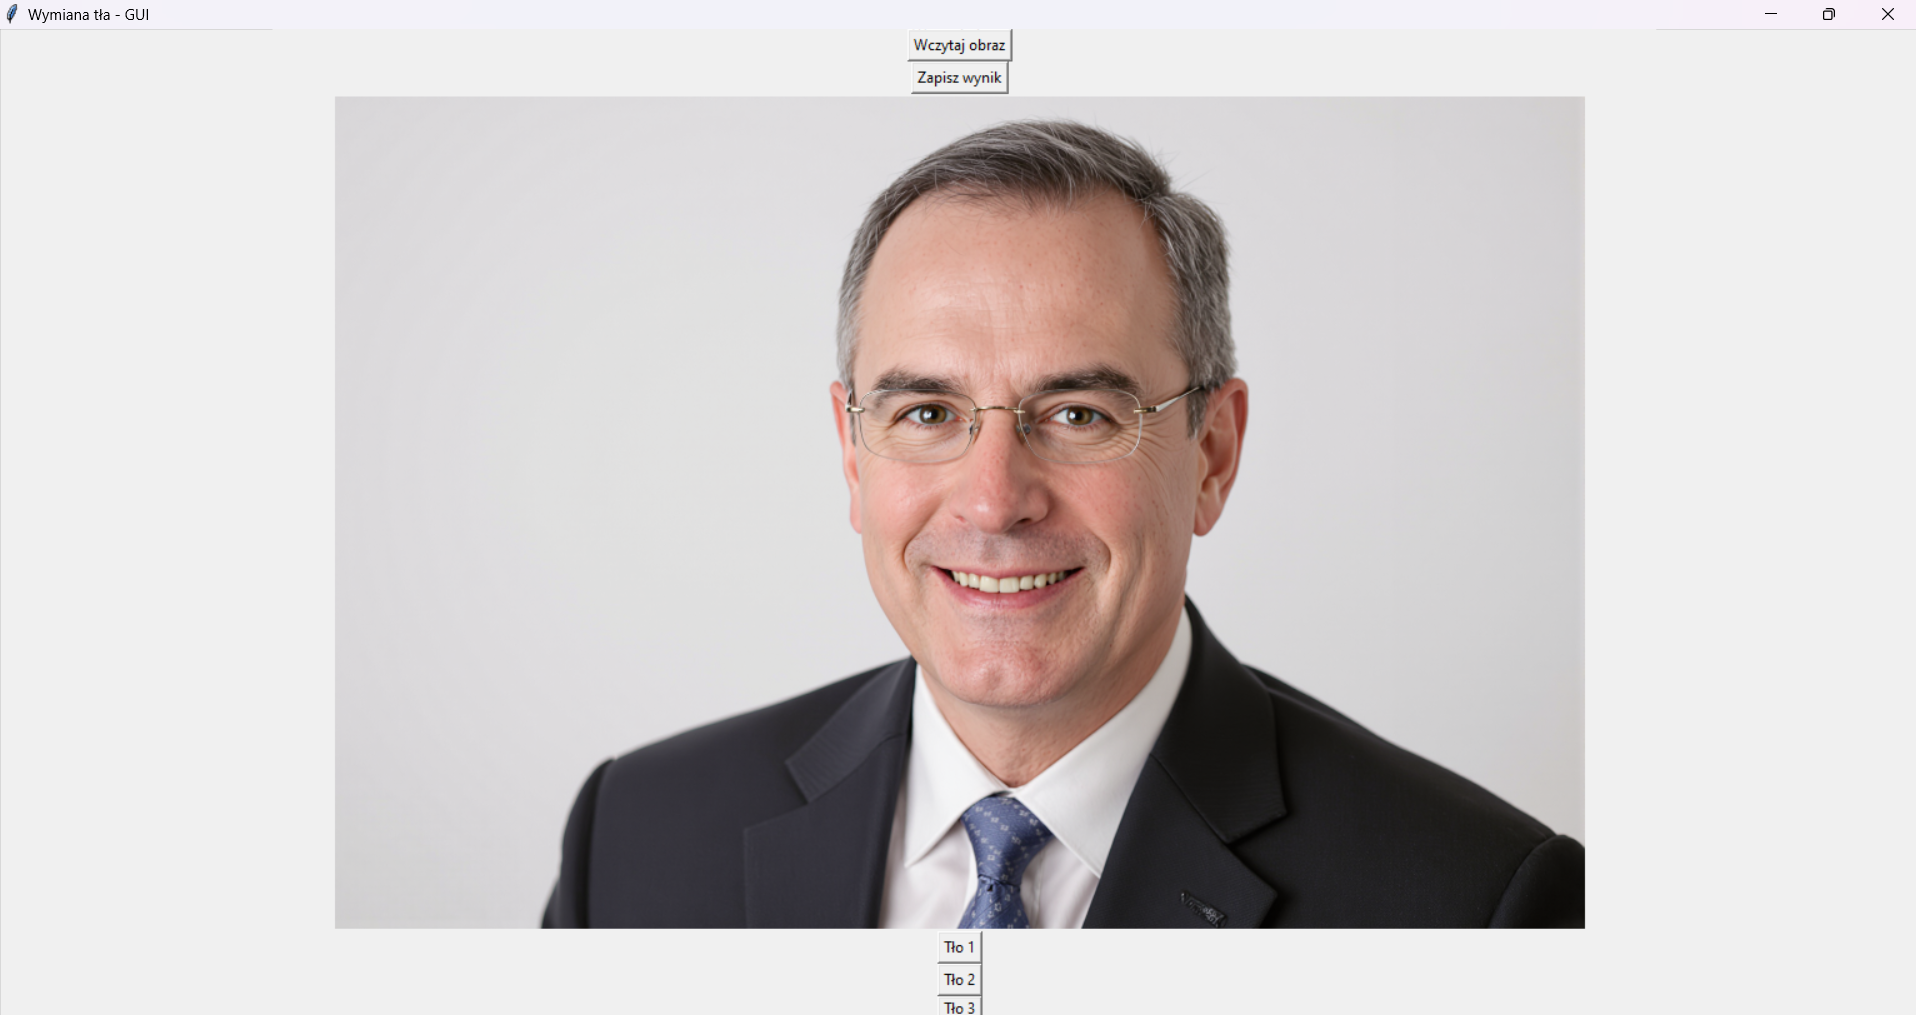
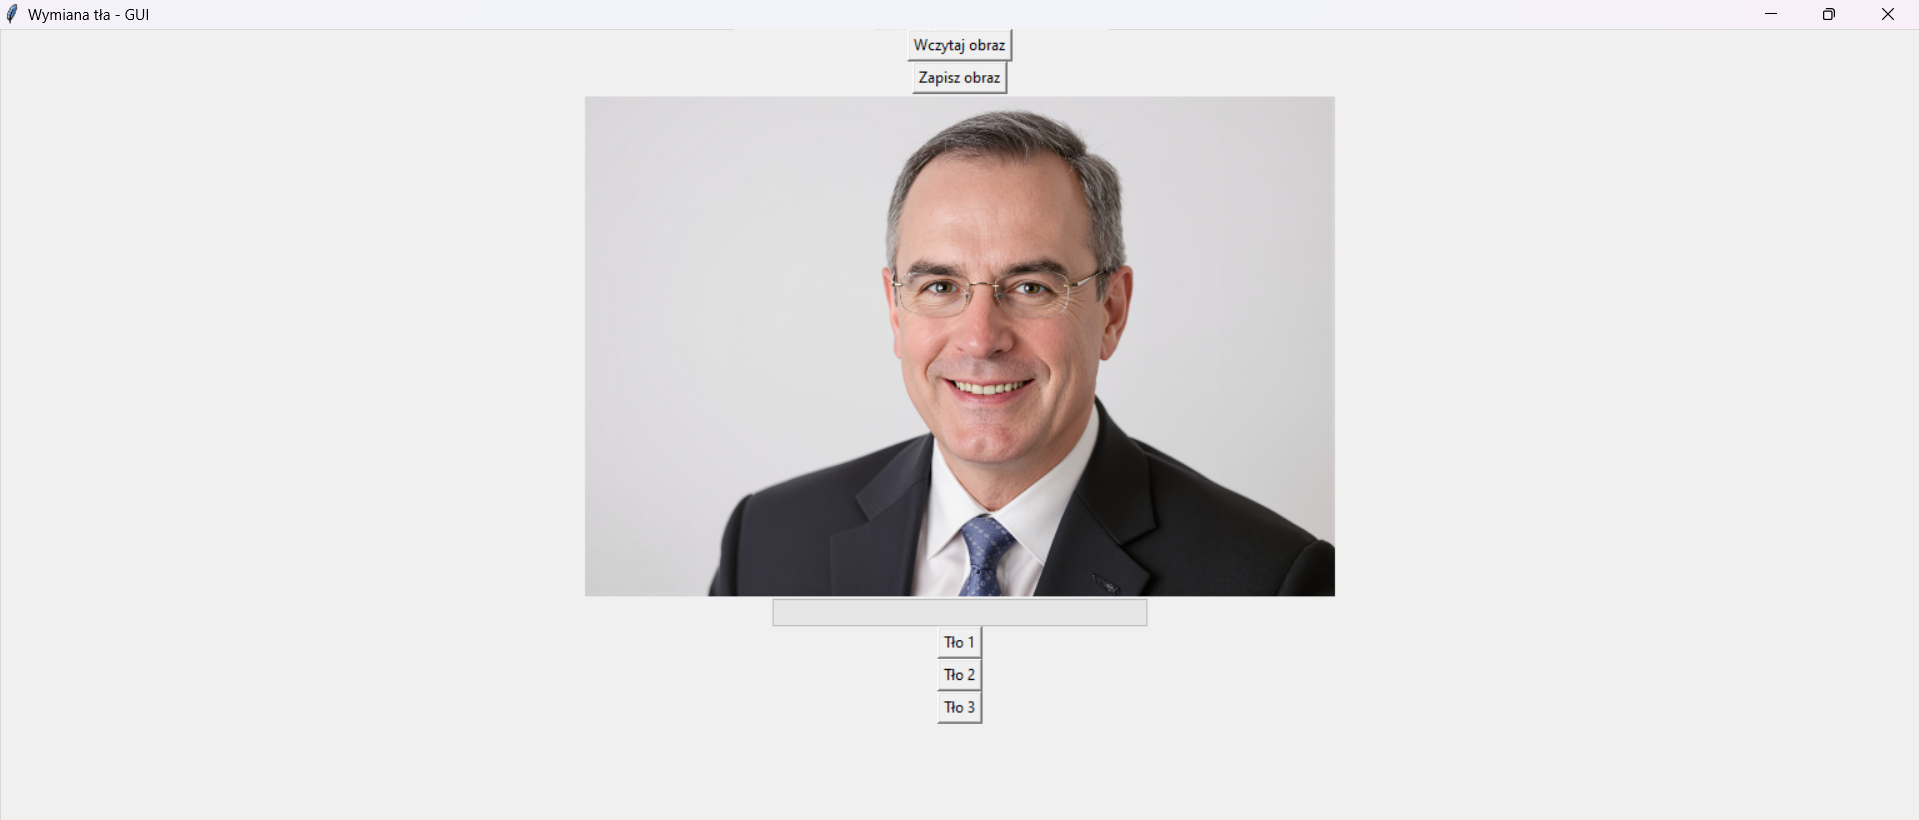
Update readme with screenshots with progress bar, image size adjustment

diff --git a/image_app.py b/image_app.py
@@ -38,8 +38,8 @@ class ImageProcessingApp:
         self.original_image = None
         self.result_image = None
 
-        self.max_width = 1000
-        self.max_height = 1000
+        self.max_width = 800
+        self.max_height = 800
 
     def load_image(self):
         """

diff --git a/README.md b/README.md
@@ -36,13 +36,13 @@ This project is a GUI application for background replacement in images. It uses 
 The Application GUI looks like that:
 ![alt text](image.png)
 
-Click on the "Wczytaj obraz" to read image that you want to replace background in.
+Click on the `Wczytaj obraz` to read image that you want to replace background in.
 
 ![alt text](image-1.png)
 
 If the image is properly read it will display on the screen.
-Choose background to put from "Tło 1", "Tło 2", "Tło 3".
+Choose background to put from `Tło 1`, `Tło 2`, `Tło 3`.
 
 ![alt text](image-2.png)
 
-Save the new image in the directory you choose by clicking "Zapisz wynik".
+Save the new image in the directory you choose by clicking `Zapisz wynik`.
